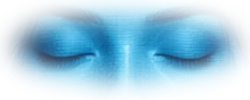
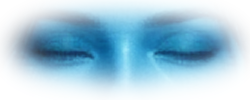
0.96.111: blink picture from ComfyUI eyes_closed, expression source pictures saved
Claude-Session: https://claude.ai/code/session_014xZyyvKse2sKH34U51trSv

diff --git a/tools/make_mouths.py b/tools/make_mouths.py
@@ -3,7 +3,8 @@
 Usage (from the Starling folder; needs Pillow and numpy only):
     python tools/make_mouths.py FOLDER
 FOLDER holds 512 x 768 pictures of her (made from starling_base_512x768.png) named
-    ah.png eh.png ee.png oh.png oo.png pressed.png fv.png smile.png
+    ah.png eh.png ee.png oh.png oo.png pressed.png fv.png smile.png   (mouths)
+    eyes_closed.png   (her blink: the eyes shut)
 (any of them; the ones you leave out are left alone). The mouth area is cut from each, lined up with her still picture,
 its colour matched to the still picture, and written to ui/assets/hologram/<name>.png. Add --check to only print the numbers
 and write a picture of the result to FOLDER/check.png without changing anything.
@@ -19,6 +20,8 @@ from PIL import Image
 ASSETS = Path(__file__).resolve().parent.parent / "ui" / "assets" / "hologram"
 NAMES = ("ah", "eh", "ee", "oh", "oo", "pressed", "fv", "smile")
 BOX = (270, 330, 250, 200)                    # where the mouth cut-outs sit on her 784 x 1168 base picture (hologram.json)
+EYES_BOX = (270, 245, 250, 100)               # and where the closed-eyes cut-out sits (the blink)
+EYES_FILES = ("eyes_closed", "eyes")          # either file name makes the blink picture; the face is lined up on the nose and mouth instead of the eyes
 OUT_W, OUT_H = 512, 768                       # the size of the ComfyUI pictures
 SX, SY = 516 / 784.0, 768 / 1168.0            # base picture -> the 512 x 768 picture (scaled to 768 tall, then 2 pixels cropped each side)
 CROP_X = 2
@@ -33,9 +36,9 @@ def grey(image, box):
     return np.asarray(image.convert("L").crop(box), dtype=np.float32)
 
 
-def find_shift(reference, picture, reach=8):
-    """How far the face in the new picture has moved from the still picture (looks at the eyes and nose, not the mouth)."""
-    box = (150, 110, 370, 235)
+def find_shift(reference, picture, reach=8, box=(150, 110, 370, 235)):
+    """How far the face in the new picture has moved from the still picture. Normally it looks at the eyes and nose (the mouth changes);
+    for the eyes it looks at the nose and mouth instead."""
     want = grey(reference, box)
     best = (1e9, 0, 0)
     for dy in range(-reach, reach + 1):
@@ -47,18 +50,18 @@ def find_shift(reference, picture, reach=8):
     return best
 
 
-def cut(picture, dx, dy):
-    """The mouth box, cut from the ComfyUI picture and scaled back up to 250 x 200 (bicubic)."""
-    x0 = BOX[0] * SX - CROP_X + dx
-    y0 = BOX[1] * SY + dy
-    return picture.transform((BOX[2], BOX[3]), Image.AFFINE, (SX, 0, x0, 0, SY, y0), resample=Image.BICUBIC)
+def cut(picture, dx, dy, box=BOX):
+    """The box, cut from the ComfyUI picture and scaled back up to full size (bicubic)."""
+    x0 = box[0] * SX - CROP_X + dx
+    y0 = box[1] * SY + dy
+    return picture.transform((box[2], box[3]), Image.AFFINE, (SX, 0, x0, 0, SY, y0), resample=Image.BICUBIC)
 
 
-def make(name, picture, base, alpha_from, check=False):
+def make(name, picture, base, alpha_from, check=False, box=BOX, shift_box=(150, 110, 370, 235)):
     reference = to_small(base)
-    error, dx, dy = find_shift(reference, picture)
-    sprite = np.asarray(cut(picture.convert("RGB"), dx, dy), dtype=np.float32)
-    still = np.asarray(base.crop((BOX[0], BOX[1], BOX[0] + BOX[2], BOX[1] + BOX[3])).convert("RGB"), dtype=np.float32)
+    error, dx, dy = find_shift(reference, picture, box=shift_box)
+    sprite = np.asarray(cut(picture.convert("RGB"), dx, dy, box), dtype=np.float32)
+    still = np.asarray(base.crop((box[0], box[1], box[0] + box[2], box[1] + box[3])).convert("RGB"), dtype=np.float32)
     alpha = np.asarray(alpha_from)[..., 3].astype(np.float32) / 255.0
     outside = alpha < 0.15                                           # skin around the mouth: should look the same as the still picture
     offset = (still[outside] - sprite[outside]).mean(axis=0) if outside.sum() > 50 else np.zeros(3)
@@ -89,6 +92,14 @@ def main(argv):
         existing = ASSETS / ("%s.png" % name)
         alpha_from = Image.open(existing).convert("RGBA") if existing.exists() else old_alpha
         made[name] = make(name, picture, base, alpha_from, check)
+    for file_name in EYES_FILES:                                      # the blink picture
+        path = folder / ("%s.png" % file_name)
+        if path.exists() and "eyes" not in made:
+            picture = Image.open(path)
+            if picture.size != (OUT_W, OUT_H):
+                print("%s: the picture is %d x %d but should be %d x %d, skipped" % (file_name, picture.width, picture.height, OUT_W, OUT_H))
+                continue
+            made["eyes"] = make("eyes", picture, base, Image.open(ASSETS / "eyes.png").convert("RGBA"), check, EYES_BOX, (160, 215, 360, 300))
     if not made:
         print("No pictures found in", folder)
         return 1
@@ -98,7 +109,8 @@ def main(argv):
         sheet = Image.new("RGB", (face.width * len(made), face.height))
         for i, (name, sprite) in enumerate(made.items()):
             tile = face.copy()
-            tile.paste(sprite.convert("RGB"), (BOX[0] - 200, BOX[1] - 220), sprite.split()[3])
+            at = EYES_BOX if name == "eyes" else BOX
+            tile.paste(sprite.convert("RGB"), (at[0] - 200, at[1] - 220), sprite.split()[3])
             sheet.paste(tile, (i * face.width, 0))
         sheet.save(folder / "check.png")
         print("wrote", folder / "check.png")

diff --git a/tests/test_make_mouths.py b/tests/test_make_mouths.py
@@ -42,6 +42,18 @@ class MouthToolTests(unittest.TestCase):
             self.assertEqual(Image.open(mm.ASSETS / ("%s.png" % name)).size, (mm.BOX[2], mm.BOX[3]), name)
             self.assertIn(name, meta["sprites"])
 
+    def test_the_blink_picture_is_fitted_the_same_way(self):
+        old = Image.open(mm.ASSETS / "eyes.png").convert("RGBA")
+        sprite = mm.make("eyes", self.still, self.base, old, box=mm.EYES_BOX, shift_box=(160, 215, 360, 300))
+        self.assertEqual(sprite.size, (mm.EYES_BOX[2], mm.EYES_BOX[3]))
+        self.assertEqual(Image.open(mm.ASSETS / "eyes.png").size, (250, 100))
+
+    def test_the_tool_writes_the_blink_from_eyes_closed(self):
+        folder = Path(tempfile.mkdtemp())
+        self.still.save(folder / "eyes_closed.png")
+        self.assertEqual(mm.main([str(folder), "--check"]), 0)
+        self.assertTrue((folder / "check.png").exists())
+
     def test_a_wrong_size_picture_is_skipped(self):
         folder = Path(tempfile.mkdtemp())
         Image.new("RGB", (100, 100)).save(folder / "ah.png")

diff --git a/core/version.py b/core/version.py
@@ -1,2 +1,2 @@
 """The one place the version number lives. The updater compares this with the newest GitHub release."""
-__version__ = "0.96.110"
+__version__ = "0.96.111"

diff --git a/README.md b/README.md
@@ -40,6 +40,8 @@ New in 0.90.2: AUSTRALIAN VOICE INSTALL FIX. On a computer where the normal voic
 New in 0.90.3: TWO COMMANDS FROM A TESTER'S LOG. (1) 'FSS off' (and 'turn off FSS', 'FSS closed') now closes the full spectrum scanner; before it said 'that isn't a command I have'. (2) 'Hide biology' and 'show biology' now work without having to say 'overlay' or 'list' as well. Not tested live.
 New in 0.90.4: FIXES FROM A STREAM LOG. (1) A real bug: once, 'weapons away' did nothing and she said 'Elite Dangerous is not the active window' even though it was, because two parts of Starling shared one Windows window-listing call and tripped over each other; each now has its own. (2) 'Hello, how are you?' got a strange 'how long have you felt that way?' answer; greetings joined to 'how are you' now work, and slang like 'wassup', 'whats up' and 'yo' too (also from stream chat). (3) 'Hide all overlays' is understood when it is misheard as 'hide at all overlays' or 'height overlays'. (4) Saying just 'hardpoints' toggles the hardpoints. (5) The log no longer fills with a YouTube 'looking for live chat' line every 30 seconds while you are not live. Windows parts untested live.
 New in 0.90.5: SHE FEELS MORE ALIVE (from a stream log). (1) Slow chat answers no longer hold up your commands: the small chat model takes 3 to 6 seconds, and a 'weapons away' said in that time used to wait behind it. Chat now thinks on its own thread. (2) 'What was the terraformable world in this system?' / 'what did we find in this system?' is answered from what the scanner showed her (terraformable, earth-like, water and ammonia worlds in the system you are in). (3) 'Can you remember my dogs' names?' works, lists all the pets you told her about, and if you haven't told her she says so instead of inventing names (a small chat model once made up 'Luna and Charlie'). (4) 'Thank you for being a good ship' gets one 'No problem', not that plus a second helpdesk-style answer; and helpdesk phrases like 'just let me know' from the chat model are thrown away so she keeps her own voice. Not tested live.
+New in 0.96.111: HER BLINK IS FROM YOUR COMFYUI PICTURE. The closed-eyes picture she blinks with is now your `eyes_closed` picture from the Expression Editor, fitted by the same tool (`python tools/make_mouths.py FOLDER` now also handles `eyes_closed.png`, lining the face up on the nose and mouth). Your other eye pictures (half closed, wide, looking left/right/up/down) are saved in docs/eye_sources, and your eyebrow and head-turn pictures in docs/head_sources, for later clips: they are not used by the program yet. NOT TESTED on screen: how the blink looks (the closed eyes looked a touch fainter on one side in my side-by-side). Two of the head pictures (tilt_left, tilt_right) have a tiny red speck at the top right edge; remake or ask me to clean it before using them.
+
 New in 0.96.110: HER MOUTH SHAPES ARE NOW FROM YOUR COMFYUI PICTURES. The eight mouth pictures she speaks with (ah, eh, ee, oh, oo, pressed lips, f/v, smile) were replaced with the ones you made in the Expression Editor. A new tool, `python tools/make_mouths.py FOLDER`, cuts the mouth from each 512 x 768 picture, lines it up with her still picture (it measures how far the face moved) and matches the colour so there is no visible patch; add --check for a side-by-side picture without changing anything. Your originals are kept in docs/mouth_sources (including smile_open, which is not used yet). NOT TESTED on screen: how it looks while she talks. The 'ah' picture had her head 8 pixels higher than the still (the biggest shift), so watch for the mouth sitting a touch high on that one. The f/v picture was the hardest shape and may not show teeth on the lip. Eyes are next.
 
 New in 0.96.109: BLOW-A-KISS CLIP. Your best ComfyUI blow_kiss video is now a Starling clip (hand to her lips, then she drops it with a big smile, about 3 seconds). I sped up the slow part where the hand rises and cut the long hold with the hand on her mouth, as you suggested. It does not play back in reverse (that would raise the hand again); she fades back to normal at the end. NOT TESTED on screen. NOT linked to any event yet, so she will not play it by herself: tell me which moments should trigger it (a follow, a thank you, flirty lines in naughty mode?). The glitchy spare hand at the start of the video is still visible for a few frames.

diff --git a/docs/PHASE6_GUIDE.md b/docs/PHASE6_GUIDE.md
@@ -1552,6 +1552,10 @@ window use the same code as the biology list.
 
 * voicepacks/default/brain.json: Brain_StreamHello 5->21 (+ Sarcastic, Close, Friendly), Brain_StreamBye 3->17 (+ Sarcastic, Close, new Friendly). Mature lines are flagged as before.
 
+## 0.96.111 - new blink picture
+
+`tools/make_mouths.py` also builds `eyes.png` (250 x 100 at (270, 245)) from `eyes_closed.png`/`eyes.png` in the folder, using the nose and mouth area to line the face up (the eyes themselves are what changes). The other expression pictures are stored in docs/eye_sources and docs/head_sources as raw 512 x 768 sources.
+
 ## 0.96.110 - new mouth shapes
 
 `tools/make_mouths.py` replaces the mouth cut-outs (ui/assets/hologram/<shape>.png, 250 x 200, drawn at (270, 330) on the 784 x 1168 base). For each ComfyUI picture it finds how far the face moved (`find_shift`, eyes and nose only), cuts the mouth box with that shift, adds the average colour difference of the skin around the mouth, and keeps the old feathered alpha so the edge blends. Sources: docs/mouth_sources.

diff --git a/docs/TODO.md b/docs/TODO.md
@@ -36,6 +36,7 @@ Measured = a real size (metres per map unit) from tester marks. Provisional = on
 - [ ] NOT LANDED ON YET: tourist_1 pad 1 (bottom small) and high_tech_1 pad 2 (Large).
 
 ### Needs a real-game test (built, not yet confirmed)
+- [ ] 0.96.111: new blink. CHECK on screen: she blinks naturally, no patch edge. Decide what to do with the head/eyebrow pictures (docs/head_sources); remake tilt_left/tilt_right (red speck).
 - [ ] 0.96.110: new mouths. CHECK on screen: talk to her; does the mouth sit right (especially 'ah'), any visible patch edge, does f/v look odd? Then make the eye pictures.
 - [ ] 0.96.109: blow_kiss clip added but not linked to any event. Decide the triggers (follow? thank you? naughty-mode lines?). CHECK on screen: the clip looks right.
 - [ ] 0.96.108: new clips. CHECK on screen: thinking, listening, pleased, bored1/2 and the shake clip look right, the reverse playback looks natural, no jump at start or end; send the rest of the shot list.
